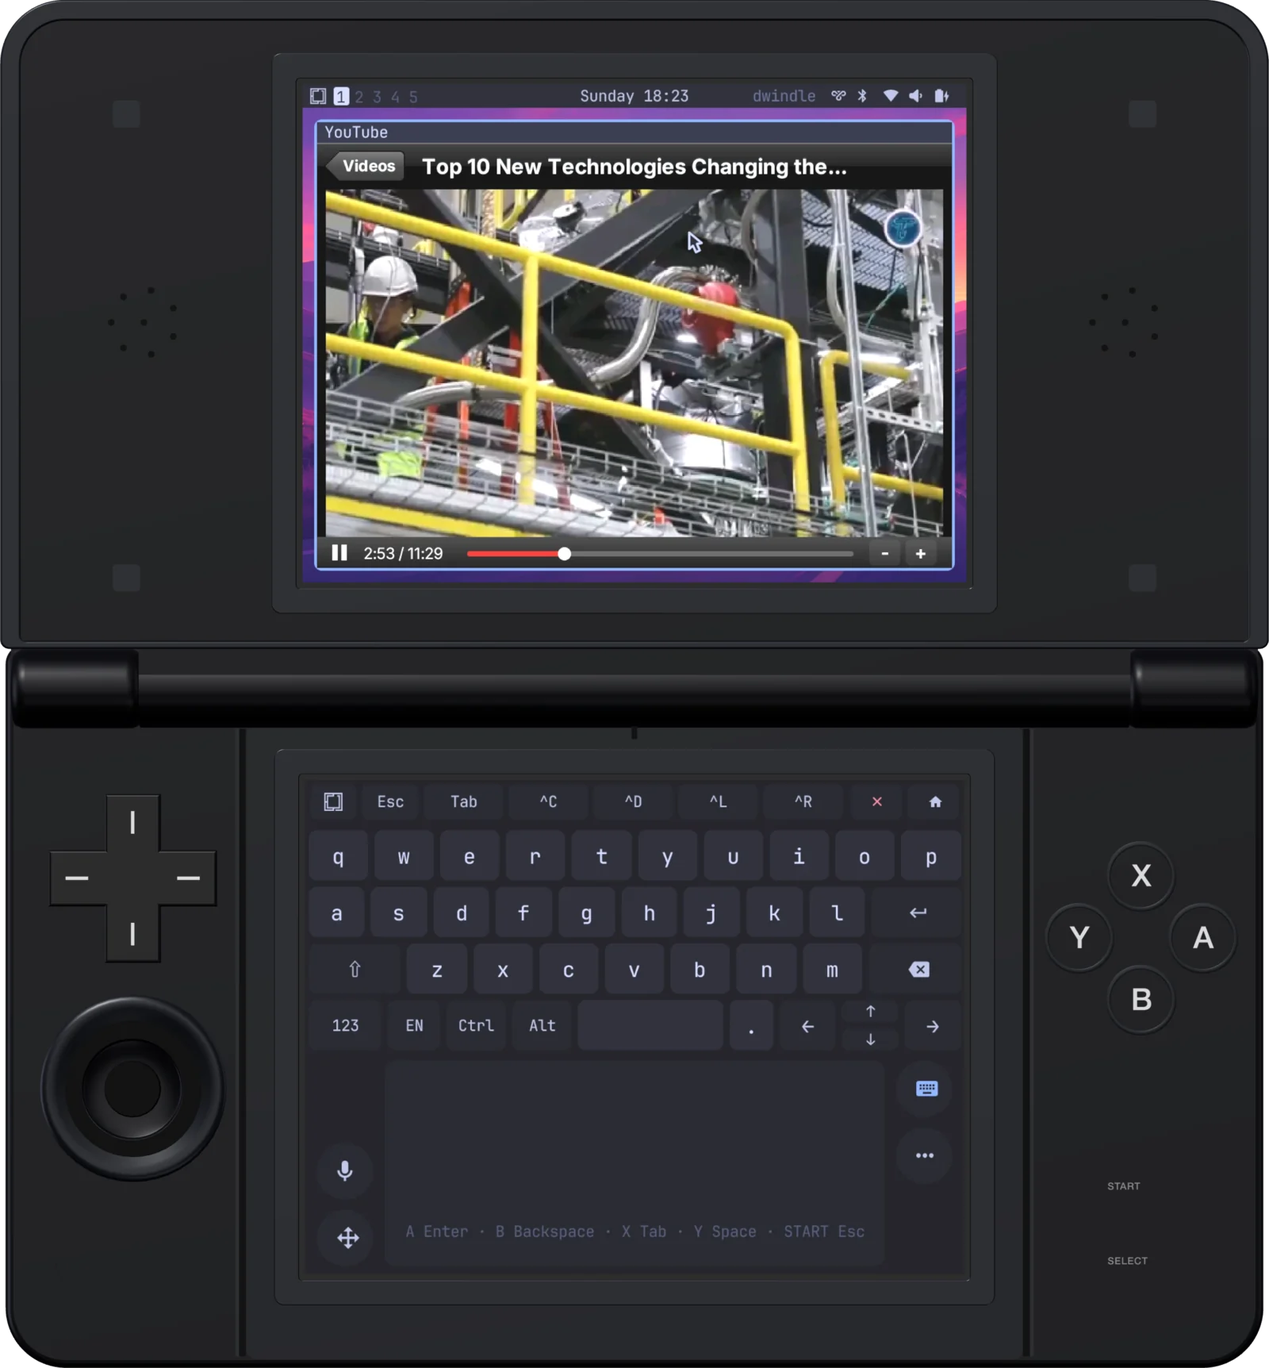
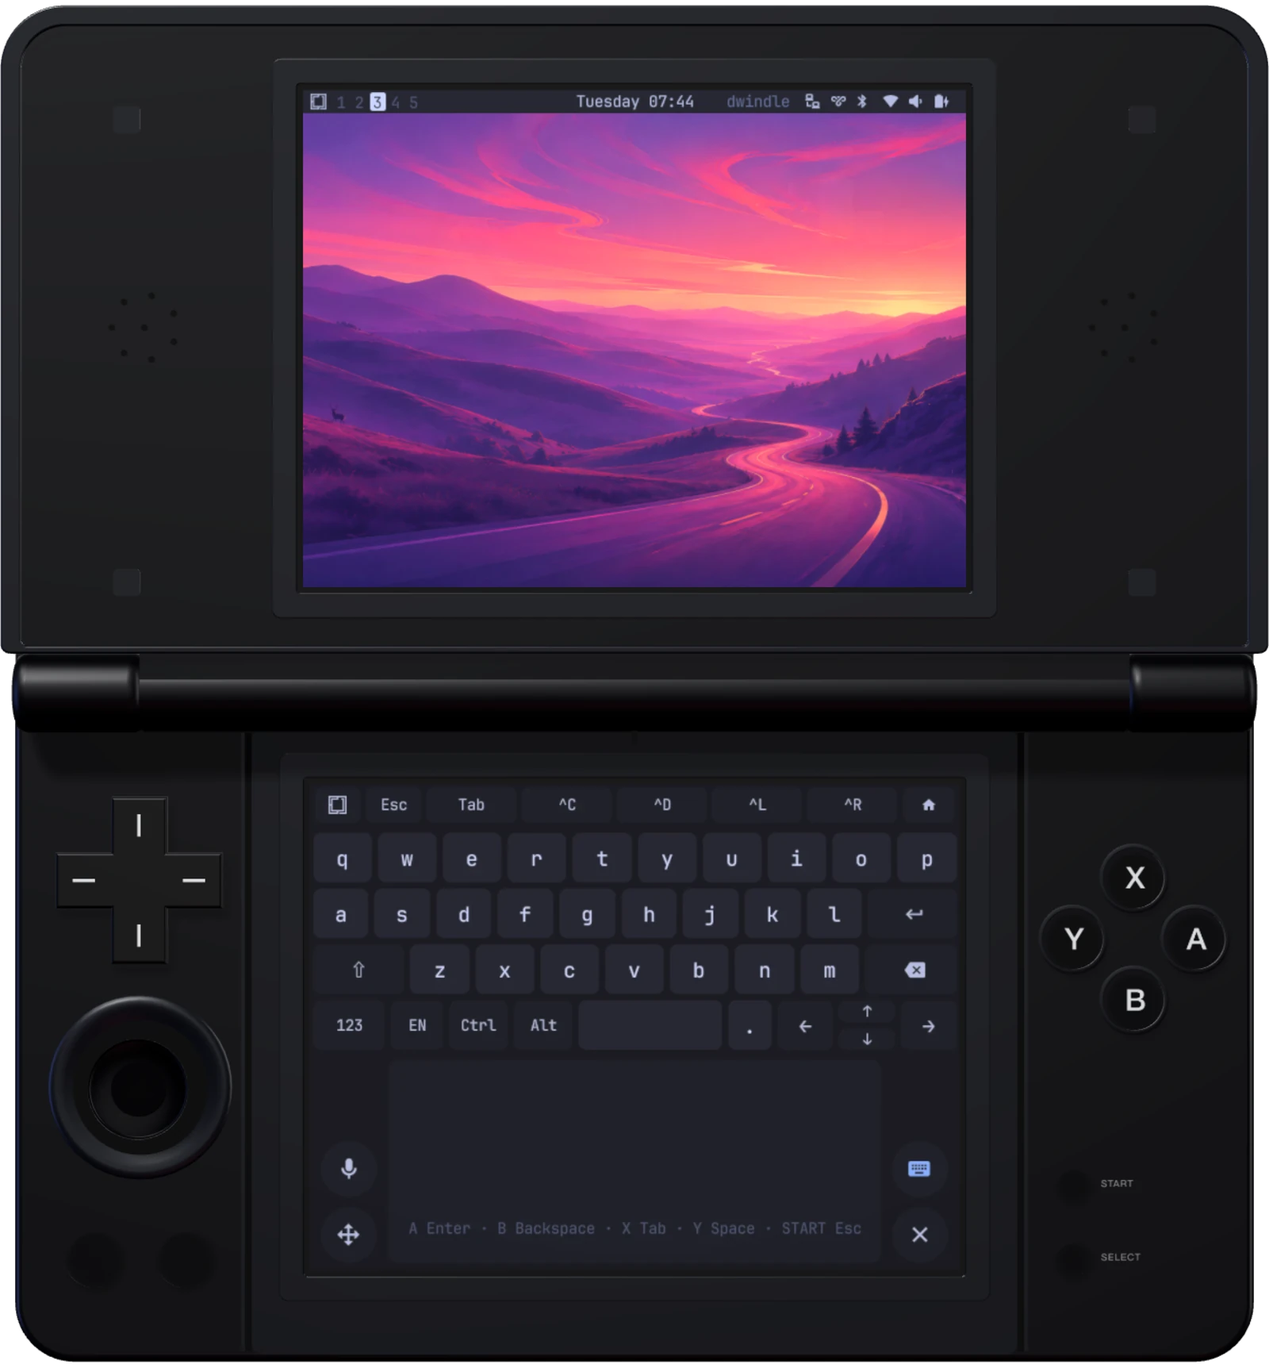
docs: the README shows the device, its screens and the applets; the site's comparison and closing buttons (#8)
- README: the 3D model with two device captures on its panels, six
  captures of both panels, and the nine applets on sample data
  (docs/media).
- site/render.ts renders the model with two panel captures through
  headless Chrome, with a transparent background.
- /vs/iphone-duo: the RG DS Plus shows the Omarchy desktop on its upper
  screen, and the iPhone Duo drawing its own home screen, in place of
  YouTube and a page of videos.
- omapocket.org's closing buttons read GitHub and Live demo.

diff --git a/site/vs.ts b/site/vs.ts
@@ -74,19 +74,48 @@ function duoSvg() {
   rect(0, 0, W, H, 92, "url(#edge)");
   rect(5, 5, W - 10, H - 10, 88, "#0b0b0d");
   out.push(`<clipPath id="screen"><rect x="${SX}" y="${SY}" width="${SW}" height="${SH}" rx="68"/></clipPath><g clip-path="url(#screen)">`);
-  // the upper half: a page of videos, in no one's colours
-  rect(SX, SY, SW, FOLD - SY, 0, "#f6f3ef");
-  rect(SX, SY, SW, 84, 0, "#ffffff");
-  rect(SX + 50, SY + 34, 60, 22, 8, "#d8d3cc");
-  rect(SX + 300, SY + 26, SW - 600, 38, 19, "#ece8e2");
-  const tints = ["#e8b7a6", "#b7c9e8", "#c8e0bd", "#e6d3a3", "#d6bfe6", "#a9d6d4"];
-  for (let i = 0; i < 6; i++) {
-    const col = i % 3, row = Math.floor(i / 3), tw = (SW - 100 - 2 * 30) / 3, th = tw * 0.56;
-    const tx = SX + 50 + col * (tw + 30), ty = SY + 118 + row * (th + 110);
-    rect(tx, ty, tw, th, 16, tints[i]!);
-    rect(tx, ty + th + 16, tw * 0.9, 16, 6, "#3b3833");
-    rect(tx, ty + th + 44, tw * 0.55, 13, 6, "#a8a297");
-  }
+  // the upper half: its own home screen, a wallpaper, two rows of apps and the dock
+  out.push(`<rect x="${SX}" y="${SY}" width="${SW}" height="${(FOLD - SY).toFixed(1)}" fill="url(#wall)"/>`);
+  out.push(`<rect x="${SX}" y="${SY}" width="${SW}" height="${(FOLD - SY).toFixed(1)}" fill="url(#glow)"/>`);
+  text(SX + 104, SY + 62, "9:41", 34, "#ffffff");
+  for (let i = 0; i < 4; i++) rect(SX + SW - 238 + i * 13, SY + 52 - i * 5, 9, 12 + i * 5, 2, "#ffffff");
+  rect(SX + SW - 160, SY + 36, 54, 26, 8, "none", `stroke="#ffffff" stroke-width="2.5" opacity=".9"`);
+  rect(SX + SW - 156, SY + 40, 38, 18, 5, "#ffffff");
+  rect(SX + SW - 103, SY + 44, 4, 10, 2, "#ffffff", `opacity=".7"`);
+  const ICON = 140, R = 34;
+  const gap = (SW - 4 * ICON) / 5;
+  const at = (col: number) => SX + gap + col * (ICON + gap);
+  const glyph: Record<string, (x: number, y: number) => string> = {
+    mail: (x, y) => `<rect x="${x + 30}" y="${y + 40}" width="80" height="60" rx="8" fill="#fff"/><path d="M${x + 32} ${y + 44} L${x + 70} ${y + 74} L${x + 108} ${y + 44}" stroke="#2f7cf6" stroke-width="5" fill="none"/>`,
+    calendar: (x, y) => `<text x="${x + 70}" y="${y + 42}" font-size="22" font-weight="600" fill="#f2453d" text-anchor="middle" font-family="-apple-system,Helvetica,Arial,sans-serif">TUE</text><text x="${x + 70}" y="${y + 112}" font-size="68" font-weight="300" fill="#111" text-anchor="middle" font-family="-apple-system,Helvetica,Arial,sans-serif">3</text>`,
+    photos: (x, y) => ["#f5c23c", "#f0812e", "#e9435d", "#a35bd9", "#4c7ff0", "#3fbfd8", "#5cc76a", "#c3d940"].map((c, i) => {
+      const a = (i / 8) * Math.PI * 2, cx = x + 70 + Math.cos(a) * 24, cy = y + 70 + Math.sin(a) * 24;
+      return `<ellipse cx="${cx.toFixed(1)}" cy="${cy.toFixed(1)}" rx="22" ry="12" transform="rotate(${((a * 180) / Math.PI).toFixed(0)} ${cx.toFixed(1)} ${cy.toFixed(1)})" fill="${c}" opacity=".82"/>`;
+    }).join(""),
+    camera: (x, y) => `<rect x="${x + 26}" y="${y + 46}" width="88" height="58" rx="12" fill="#2b2d31"/><circle cx="${x + 70}" cy="${y + 75}" r="21" fill="#53575e"/><circle cx="${x + 70}" cy="${y + 75}" r="12" fill="#1a1c1f"/>`,
+    maps: (x, y) => `<path d="M${x} ${y + 98} C${x + 40} ${y + 90} ${x + 70} ${y + 40} ${x + ICON} ${y + 34}" stroke="#fff" stroke-width="14" fill="none"/><path d="M${x + 58} ${y} L${x + 92} ${y + ICON}" stroke="#f7d36b" stroke-width="10"/><circle cx="${x + 96}" cy="${y + 64}" r="11" fill="#2f7cf6" stroke="#fff" stroke-width="4"/>`,
+    weather: (x, y) => `<circle cx="${x + 58}" cy="${y + 56}" r="24" fill="#ffd34a"/><ellipse cx="${x + 82}" cy="${y + 90}" rx="38" ry="20" fill="#fff"/><circle cx="${x + 66}" cy="${y + 82}" r="20" fill="#fff"/>`,
+    notes: (x, y) => `<rect x="${x}" y="${y}" width="${ICON}" height="34" fill="#f8cf3f"/>${[60, 84, 108].map((ly) => `<rect x="${x + 22}" y="${y + ly}" width="96" height="5" rx="2" fill="#d6d3cc"/>`).join("")}`,
+    settings: (x, y) => `<circle cx="${x + 70}" cy="${y + 70}" r="40" fill="#6d7179"/>${Array.from({ length: 12 }, (_, i) => `<rect x="${x + 64}" y="${y + 20}" width="12" height="18" rx="3" fill="#6d7179" transform="rotate(${i * 30} ${x + 70} ${y + 70})"/>`).join("")}<circle cx="${x + 70}" cy="${y + 70}" r="24" fill="#c9ccd1"/><circle cx="${x + 70}" cy="${y + 70}" r="11" fill="#6d7179"/>`,
+    phone: (x, y) => `<path d="M${x + 46} ${y + 38} q10 -6 16 4 l8 16 q3 7 -4 12 l-6 4 q8 18 26 26 l4 -6 q5 -7 12 -4 l16 8 q10 6 4 16 l-6 8 q-10 10 -30 2 q-36 -16 -50 -52 q-6 -20 4 -30 z" fill="#fff"/>`,
+    compass: (x, y) => `<circle cx="${x + 70}" cy="${y + 70}" r="48" fill="#fff"/><circle cx="${x + 70}" cy="${y + 70}" r="42" fill="#3d8ef7"/><path d="M${x + 96} ${y + 44} L${x + 76} ${y + 76} L${x + 64} ${y + 64} Z" fill="#f2453d"/><path d="M${x + 44} ${y + 96} L${x + 64} ${y + 64} L${x + 76} ${y + 76} Z" fill="#fff"/>`,
+    messages: (x, y) => `<ellipse cx="${x + 70}" cy="${y + 66}" rx="46" ry="38" fill="#fff"/><path d="M${x + 40} ${y + 92} q-6 14 -16 18 q22 0 32 -10 z" fill="#fff"/>`,
+    music: (x, y) => `<path d="M${x + 58} ${y + 40} L${x + 98} ${y + 32} L${x + 98} ${y + 92}" stroke="#fff" stroke-width="9" fill="none"/><path d="M${x + 58} ${y + 40} L${x + 58} ${y + 100}" stroke="#fff" stroke-width="9"/><circle cx="${x + 48}" cy="${y + 100}" r="13" fill="#fff"/><circle cx="${x + 88}" cy="${y + 92}" r="13" fill="#fff"/>`,
+  };
+  const BG: Record<string, string> = {
+    mail: "url(#g-blue)", calendar: "#ffffff", photos: "#ffffff", camera: "url(#g-gray)", maps: "url(#g-green)", weather: "url(#g-sky)",
+    notes: "#ffffff", settings: "url(#g-gray)", phone: "url(#g-green)", compass: "#ffffff", messages: "url(#g-green)", music: "url(#g-red)",
+  };
+  const icon = (name: string, x: number, y: number, label?: string) => {
+    out.push(`<clipPath id="i-${name}"><rect x="${x}" y="${y}" width="${ICON}" height="${ICON}" rx="${R}"/></clipPath>`);
+    out.push(`<g clip-path="url(#i-${name})"><rect x="${x}" y="${y}" width="${ICON}" height="${ICON}" fill="${BG[name]}"/>${glyph[name]!(x, y)}</g>`);
+    if (label) text(x + ICON / 2, y + ICON + 32, label, 23, "#ffffff");
+  };
+  const GRID = [["mail", "Mail"], ["calendar", "Calendar"], ["photos", "Photos"], ["camera", "Camera"], ["maps", "Maps"], ["weather", "Weather"], ["notes", "Notes"], ["settings", "Settings"]] as const;
+  GRID.forEach(([name, label], i) => icon(name, at(i % 4), SY + 108 + Math.floor(i / 4) * 214, label));
+  for (let i = 0; i < 3; i++) out.push(`<circle cx="${SX + SW / 2 - 18 + i * 18}" cy="${SY + 568}" r="5" fill="#ffffff" opacity="${i === 0 ? 0.95 : 0.4}"/>`);
+  rect(SX + 36, FOLD - 214, SW - 72, 184, 56, "#ffffff", `opacity=".22"`);
+  ["phone", "compass", "messages", "music"].forEach((name, i) => icon(name, at(i), FOLD - 192));
   // the lower half: a function row, keys and a trackpad
   rect(SX, FOLD, SW, H - FOLD, 0, "#111114");
   const chips = ["esc", "‹ Back", "› Forward", "Reload", "New Tab", "Address"];
@@ -114,7 +143,14 @@ function duoSvg() {
   out.push(`<rect x="${SX}" y="${FOLD - 7}" width="${SW}" height="14" fill="url(#crease)"/>`);
   out.push("</g>");
   return `<svg xmlns="http://www.w3.org/2000/svg" viewBox="0 0 ${W} ${H}" role="img" aria-label="An iPhone Duo, open, drawn from its published dimensions">
-<defs><linearGradient id="edge" x1="0" x2="1" y1="0" y2="1"><stop offset="0" stop-color="#b9bbc0"/><stop offset=".5" stop-color="#7b7d83"/><stop offset="1" stop-color="#c8cacf"/></linearGradient>
+<defs><linearGradient id="wall" x1="0" x2=".4" y1="0" y2="1"><stop offset="0" stop-color="#1d3fd6"/><stop offset=".55" stop-color="#6b3fd8"/><stop offset="1" stop-color="#d9608f"/></linearGradient>
+<radialGradient id="glow" cx=".75" cy=".2" r=".7"><stop offset="0" stop-color="#ffb36b" stop-opacity=".55"/><stop offset="1" stop-color="#ffb36b" stop-opacity="0"/></radialGradient>
+<linearGradient id="g-blue" x1="0" x2="0" y1="0" y2="1"><stop offset="0" stop-color="#4fa3ff"/><stop offset="1" stop-color="#1d6ef2"/></linearGradient>
+<linearGradient id="g-green" x1="0" x2="0" y1="0" y2="1"><stop offset="0" stop-color="#67e07a"/><stop offset="1" stop-color="#22b84a"/></linearGradient>
+<linearGradient id="g-sky" x1="0" x2="0" y1="0" y2="1"><stop offset="0" stop-color="#3b8cf0"/><stop offset="1" stop-color="#77c3fb"/></linearGradient>
+<linearGradient id="g-gray" x1="0" x2="0" y1="0" y2="1"><stop offset="0" stop-color="#a7abb2"/><stop offset="1" stop-color="#80848c"/></linearGradient>
+<linearGradient id="g-red" x1="0" x2="0" y1="0" y2="1"><stop offset="0" stop-color="#ff6680"/><stop offset="1" stop-color="#f2304e"/></linearGradient>
+<linearGradient id="edge" x1="0" x2="1" y1="0" y2="1"><stop offset="0" stop-color="#b9bbc0"/><stop offset=".5" stop-color="#7b7d83"/><stop offset="1" stop-color="#c8cacf"/></linearGradient>
 <linearGradient id="crease" x1="0" x2="0" y1="0" y2="1"><stop offset="0" stop-color="#000" stop-opacity="0"/><stop offset=".5" stop-color="#000" stop-opacity=".35"/><stop offset="1" stop-color="#000" stop-opacity="0"/></linearGradient></defs>
 ${out.join("\n")}
 </svg>`;
@@ -124,8 +160,8 @@ writeFileSync(`${OUT}iphone-duo.svg`, duoSvg());
 // ---------- pieces ----------
 const num = (n: number) => n.toLocaleString("en");
 const LOCAL_NAV = `<a href="/#shapes">Interaction</a><a href="/#heart">Omarchy</a><a href="/#apps">Applets</a><a class="here" href="/vs/iphone-duo/" aria-current="page">vs iPhone Duo</a><a href="/demo/">Live demo</a><a href="https://github.com/pocket-nexus/omarchy-pocket">GitHub</a>`;
-const DUO_IMG = (cls: string) => `<img class="${cls}" src="/vs/iphone-duo/iphone-duo.svg" width="1178" height="1646" alt="${cls === "lo" ? "An iPhone Duo, open: a keyboard and trackpad on the lower half of its one folding screen" : ""}" decoding="async">`;
-const RG_IMG = (cls: string) => `<img class="${cls}" src="/vs/iphone-duo/rg-ds-plus.webp" width="1600" height="1724" alt="${cls === "lo" ? "An RG DS Plus, open, running Omarchy Pocket: YouTube on the upper screen, a keyboard and trackpad on the lower" : ""}" decoding="async">`;
+const DUO_IMG = (cls: string) => `<img class="${cls}" src="/vs/iphone-duo/iphone-duo.svg" width="1178" height="1646" alt="${cls === "lo" ? "An iPhone Duo, open: its home screen on the upper half of its one folding screen, a keyboard and trackpad on the lower" : ""}" decoding="async">`;
+const RG_IMG = (cls: string) => `<img class="${cls}" src="/vs/iphone-duo/rg-ds-plus.webp" width="1600" height="1724" alt="${cls === "lo" ? "An RG DS Plus, open, running Omarchy Pocket: the desktop on the upper screen, a keyboard and trackpad on the lower" : ""}" decoding="async">`;
 const device = (who: "duo" | "rg", mm: string, name: string, facts: string) => `<figure class="dev ${who}">
   <div class="fold">${who === "duo" ? DUO_IMG("up") + DUO_IMG("lo") : RG_IMG("up") + RG_IMG("lo")}</div>
   <div class="rule"><i></i><span>${mm}</span></div>

diff --git a/site/render.ts b/site/render.ts
@@ -1,0 +1,93 @@
+// Renders the RG DS Plus model (public/kit/rgds.js) with two panel captures to
+// a PNG with a transparent background, through Google Chrome's DevTools
+// protocol (its --screenshot flag writes nothing for a WebGL page here).
+//
+//   bun site/render.ts <top.png> <bottom.png> <out.png> [--size=1600x1724] [--pose=yaw,pitch,lid] [--color=black]
+//
+// The panels take 1024 × 768 captures (site/shots.ts splits a readback into
+// them). The default pose is the device open flat, face on: the drawing on
+// /vs/iphone-duo/. `--pose=-18,-48,118` is the landing page's three-quarter
+// view.
+import { mkdirSync } from "node:fs";
+import { dirname, resolve } from "node:path";
+
+const CHROME = "/Applications/Google Chrome.app/Contents/MacOS/Google Chrome";
+const PUBLIC = new URL("public/", import.meta.url).pathname;
+
+const args = process.argv.slice(2);
+const flag = (name: string, fallback: string) => args.find((a) => a.startsWith(`--${name}=`))?.split("=")[1] ?? fallback;
+const [top, bottom, out] = args.filter((a) => !a.startsWith("--")).map((p) => resolve(p));
+if (!top || !bottom || !out) throw new Error("usage: bun site/render.ts <top.png> <bottom.png> <out.png> [--size=WxH] [--pose=yaw,pitch,lid] [--color=black]");
+const [width, height] = flag("size", "1600x1724").split("x").map(Number) as [number, number];
+const [yaw, pitch, lid] = flag("pose", "0,0,180").split(",").map(Number) as [number, number, number];
+const color = flag("color", "black");
+
+const page = `<!doctype html><html><head><meta charset="utf-8"><style>html,body{margin:0;background:transparent}#host{width:${width}px;height:${height}px}</style></head>
+<body><div id="host"></div><script type="module">
+import { createDevice } from "/kit/rgds.js";
+const device = createDevice(document.getElementById("host"), { color: ${JSON.stringify(color)}, drag: false, press: false, tilt: 0 });
+await device.preload(["/input/top", "/input/bottom"]);
+device.pose({ yaw: ${yaw}, pitch: ${pitch}, lid: ${lid} }, { ms: 0 });
+device.show("/input/top", "/input/bottom", { ms: 0 });
+// a few frames for the textures to upload and the frame to draw
+let frames = 0;
+const tick = () => (++frames < 30 ? requestAnimationFrame(tick) : (document.title = "ready"));
+requestAnimationFrame(tick);
+</script></body></html>`;
+
+const port = 4300 + Math.floor(Math.random() * 200);
+const server = Bun.serve({
+  port, hostname: "127.0.0.1",
+  async fetch(request) {
+    const path = new URL(request.url).pathname;
+    if (path === "/") return new Response(page, { headers: { "content-type": "text/html" } });
+    if (path === "/input/top") return new Response(Bun.file(top));
+    if (path === "/input/bottom") return new Response(Bun.file(bottom));
+    if (path.startsWith("/kit/") && !path.includes("..")) return new Response(Bun.file(PUBLIC + path.slice(1)));
+    return new Response("not found", { status: 404 });
+  },
+});
+
+const profile = `${dirname(out)}/.chrome-${port}`;
+const chrome = Bun.spawn([CHROME, "--headless=new", `--remote-debugging-port=${port + 1}`, `--user-data-dir=${profile}`, "--no-first-run", "--enable-gpu", "about:blank"], { stdout: "ignore", stderr: "ignore" });
+try {
+  let targets: { type: string; webSocketDebuggerUrl: string }[] = [];
+  for (let i = 0; i < 50 && !targets.length; i++) {
+    await Bun.sleep(200);
+    targets = await fetch(`http://127.0.0.1:${port + 1}/json`).then((r) => r.json(), () => []);
+  }
+  const ws = new WebSocket(targets.find((t) => t.type === "page")!.webSocketDebuggerUrl);
+  await new Promise((done) => (ws.onopen = done));
+  let next = 0;
+  const waiting = new Map<number, (value: any) => void>();
+  ws.onmessage = (event) => {
+    const message = JSON.parse(String(event.data));
+    if (message.id) waiting.get(message.id)?.(message.result ?? message.error);
+    if (message.method === "Runtime.exceptionThrown") console.error(message.params.exceptionDetails?.exception?.description);
+  };
+  const send = (method: string, params: object = {}) => new Promise<any>((done) => {
+    const id = ++next;
+    waiting.set(id, done);
+    ws.send(JSON.stringify({ id, method, params }));
+  });
+  await send("Runtime.enable");
+  await send("Emulation.setDeviceMetricsOverride", { width, height, deviceScaleFactor: 1, mobile: false });
+  await send("Emulation.setDefaultBackgroundColorOverride", { color: { r: 0, g: 0, b: 0, a: 0 } });
+  await send("Page.navigate", { url: `http://127.0.0.1:${port}/` });
+  let title = "";
+  for (let i = 0; i < 150 && title !== "ready"; i++) {
+    await Bun.sleep(100);
+    title = (await send("Runtime.evaluate", { expression: "document.title", returnByValue: true })).result?.value ?? "";
+  }
+  if (title !== "ready") throw new Error("the model did not draw");
+  const shot = await send("Page.captureScreenshot", { format: "png" });
+  mkdirSync(dirname(out), { recursive: true });
+  await Bun.write(out, Buffer.from(shot.data, "base64"));
+  console.log(out);
+  ws.close();
+} finally {
+  chrome.kill();
+  server.stop(true);
+  await Bun.sleep(200);
+  await Bun.$`rm -rf ${profile}`.quiet().nothrow();
+}

diff --git a/site/public/vs/iphone-duo/index.html b/site/public/vs/iphone-duo/index.html
@@ -351,12 +351,12 @@ td.win:nth-of-type(1)::before{background:var(--duo)}
     </div>
     <div class="pair">
       <figure class="dev duo">
-  <div class="fold"><img class="up" src="/vs/iphone-duo/iphone-duo.svg" width="1178" height="1646" alt="" decoding="async"><img class="lo" src="/vs/iphone-duo/iphone-duo.svg" width="1178" height="1646" alt="An iPhone Duo, open: a keyboard and trackpad on the lower half of its one folding screen" decoding="async"></div>
+  <div class="fold"><img class="up" src="/vs/iphone-duo/iphone-duo.svg" width="1178" height="1646" alt="" decoding="async"><img class="lo" src="/vs/iphone-duo/iphone-duo.svg" width="1178" height="1646" alt="An iPhone Duo, open: its home screen on the upper half of its one folding screen, a keyboard and trackpad on the lower" decoding="async"></div>
   <div class="rule"><i></i><span>117.8 mm</span></div>
   <figcaption><b>iPhone Duo</b><span>254 g · $1,999</span></figcaption>
 </figure>
       <figure class="dev rg">
-  <div class="fold"><img class="up" src="/vs/iphone-duo/rg-ds-plus.webp" width="1600" height="1724" alt="" decoding="async"><img class="lo" src="/vs/iphone-duo/rg-ds-plus.webp" width="1600" height="1724" alt="An RG DS Plus, open, running Omarchy Pocket: YouTube on the upper screen, a keyboard and trackpad on the lower" decoding="async"></div>
+  <div class="fold"><img class="up" src="/vs/iphone-duo/rg-ds-plus.webp" width="1600" height="1724" alt="" decoding="async"><img class="lo" src="/vs/iphone-duo/rg-ds-plus.webp" width="1600" height="1724" alt="An RG DS Plus, open, running Omarchy Pocket: the desktop on the upper screen, a keyboard and trackpad on the lower" decoding="async"></div>
   <div class="rule"><i></i><span>167 mm</span></div>
   <figcaption><b>RG DS Plus with Omarchy Pocket</b><span>344 g · $94.99</span></figcaption>
 </figure>

diff --git a/site/public/index.html b/site/public/index.html
@@ -209,7 +209,7 @@ footer{position:relative;z-index:2;display:flex;justify-content:space-between;pa
       <h2>Your hardware <em>deserves more.</em></h2>
       <p class="lead">We're starting with the RG DS Plus, but the vision goes much further.</p>
       <p>Different screens. Different controls. Different capabilities. One idea: make more of the computers we already have.</p>
-      <div class="btns"><a class="btn" href="https://github.com/pocket-nexus/omarchy-pocket">Explore Omarchy Pocket on GitHub</a><a class="btn alt" href="https://anbernic.com/products/rg-ds-plus?sca_ref=12680456.0FG7ivC2oS" rel="sponsored noopener" target="_blank">Get an RG DS Plus ↗</a><a class="btn alt" href="/demo/">Try the live demo</a></div>
+      <div class="btns"><a class="btn" href="https://github.com/pocket-nexus/omarchy-pocket">GitHub</a><a class="btn alt" href="https://anbernic.com/products/rg-ds-plus?sca_ref=12680456.0FG7ivC2oS" rel="sponsored noopener" target="_blank">Get an RG DS Plus ↗</a><a class="btn alt" href="/demo/">Live demo</a></div>
     </div>
   </section>
 </main>

diff --git a/README.md b/README.md
@@ -1,6 +1,27 @@
 # Omarchy Pocket
 
-Omarchy's CLI, themes, config and Linux services on the Anbernic RG DS Plus (RK3568, two 1024×768 DSI panels), under one PocketJS shell rendered by the Mali-G52. Omarchy's desktop session (Hyprland, Quickshell, SDDM) is not installed.
+<p align="center"><img src="docs/media/rg-ds-plus.webp" width="560" alt="An RG DS Plus running Omarchy Pocket: a terminal, a CPU panel and a clock tiled on the upper screen, the keyboard deck on the lower"></p>
+
+Omarchy's CLI, themes, config and Linux services on the Anbernic RG DS Plus (RK3568, two 1024×768 DSI panels), under one PocketJS shell rendered by the Mali-G52. Omarchy's desktop session (Hyprland, Quickshell, SDDM) is not installed. The site is [omapocket.org](https://omapocket.org), with a [live demo](https://omapocket.org/demo/) of the shell in the browser.
+
+The picture is the device's three.js model (`site/public/kit/rgds.js`) with two captures from the device on its panels, rendered by `site/render.ts`.
+
+## On the device
+
+<p align="center"><img src="docs/media/screens.webp" width="840" alt="Six captures, each the upper panel over the lower: the desktop with the workspace pad, three tiled windows over the keyboard, Codex in a window, the window layer's key sheet, Hacker News and Maps over the touchpad"></p>
+
+Both panels read back from the GPU (`tools/screenshot.ts`), the upper over the lower:
+
+- **Top row:** the desktop with the workspace pad; a terminal, Activity and Clock tiled, over the keyboard deck; Codex in a window.
+- **Bottom row:** the window layer's key sheet (hold L1); Hacker News and Maps over the touchpad.
+
+## Applets
+
+<p align="center"><img src="docs/media/applets.webp" width="840" alt="Nine applets on sample data: Weather, Hacker News, GitHub, X, Discord, YouTube, Podcasts, Maps and Home"></p>
+
+The windows' applets come from [pocket-nexus/applets](https://github.com/pocket-nexus/applets), the source Pocket Shell also builds for the 3DS and the Tab5. The pictures are each applet's first screen on its sample data, in the player at [applets.pocket.nexus](https://applets.pocket.nexus/); the Store applet installs them on the device.
+
+## Documentation and layout
 
 - [docs/omarchy-pocket.md](docs/omarchy-pocket.md): boot chain, card layout, system image, device program, session, bridge and daemon, input, power, network, shell.
 - [docs/features.md](docs/features.md): Omarchy's desktop features and where each stands in Omarchy Pocket.

diff --git a/site/README.md b/site/README.md
@@ -6,7 +6,8 @@ The landing page and the browser demo, an assets-only Worker (`wrangler.jsonc`).
 |---|---|
 | `public/` | what deploys: `index.html`, `demo/`, `kit/` (the RG DS Plus as a three.js model, the chord table), `shots/` |
 | `demo/` | sources of `public/demo/host.js`: the browser's host program and a stand-in for omarchy-pocketd |
-| `vs.ts` | builds `public/vs/iphone-duo/`: the comparison from one table of figures, and the to-scale drawing |
+| `vs.ts` | builds `public/vs/iphone-duo/`: the comparison from one table of figures, and the to-scale drawing of the iPhone Duo with its home screen |
+| `render.ts` | renders the 3D model with two panel captures through headless Chrome: `public/vs/iphone-duo/rg-ds-plus.webp` (the desktop over the keyboard, face on) and the README's picture (`--pose=-18,-48,118`) |
 | `study/` | the three directions not chosen, and the first draft of this one; not deployed |
 
 ```sh
@@ -16,6 +17,7 @@ bun site/record.ts                 # the chord video and the panel stills, from 
 bun site/icons.ts                  # the icon family and og-image.png (needs the preview)
 bun site/shots.ts                  # device captures from the ignored .pocket-build/validation
 bun site/vs.ts                     # the iPhone Duo comparison
+bun site/render.ts <top.png> <bottom.png> <out.png> [--pose=yaw,pitch,lid]   # the 3D model with two panel captures, transparent
 cd site && bunx wrangler deploy
 ```
 
